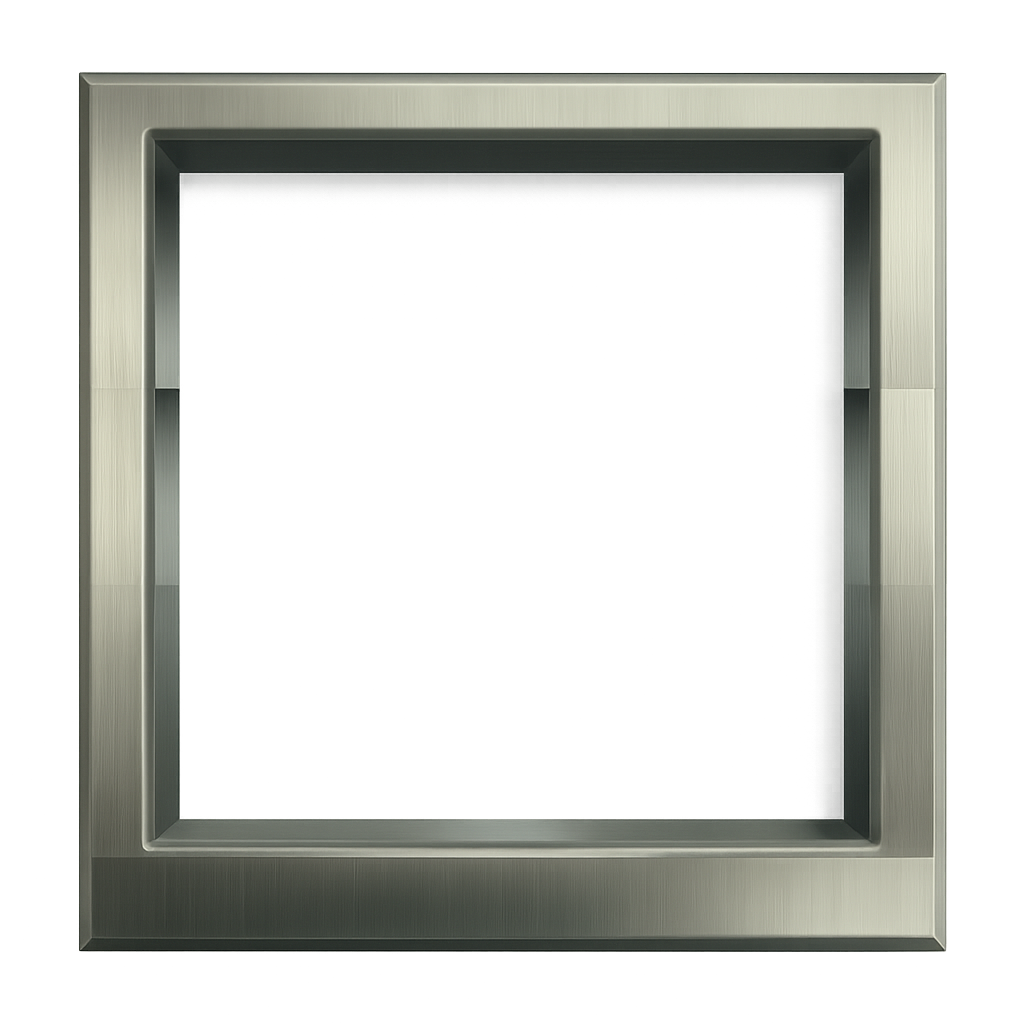
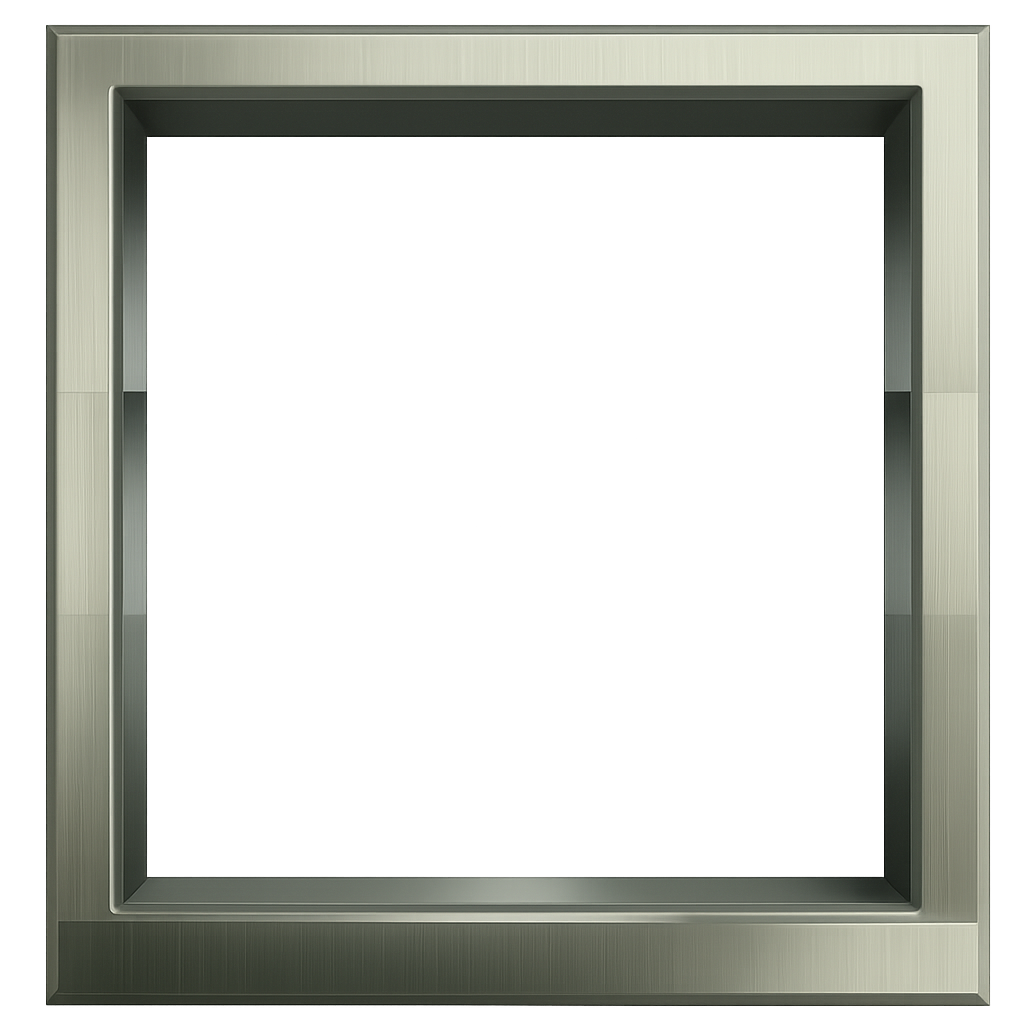
Changes

diff --git a/src/pages/Menu.tsx b/src/pages/Menu.tsx
@@ -6,7 +6,7 @@ import { Upload, Download, Shield, CheckCircle, Sparkles, BookOpen, Smile, Refre
 import { useNavigate } from "react-router-dom";
 import heroTransformation from "@/assets/hero-transformation.png";
 import pixfixLogo from "@/assets/pixfix-logo-hero.png";
-import silverFrame from "@/assets/deep-frame.png";
+import silverFrame from "@/assets/wide-frame.png";
 
 const Menu = () => {
   const navigate = useNavigate();

diff --git a/src/pages/ProjectTypeSelection.tsx b/src/pages/ProjectTypeSelection.tsx
@@ -2,7 +2,7 @@ import { useState } from "react";
 import { Button } from "@/components/ui/button";
 import { Palette, Smile, Home, CheckCircle2, Image } from "lucide-react";
 import { useNavigate } from "react-router-dom";
-import wideFrame from "@/assets/wide-frame-2.png";
+import wideFrame from "@/assets/wide-frame.png";
 import orangeTileBg from "@/assets/orange-tile-bg.png";
 
 const ORANGE = "#FF7A3C";
